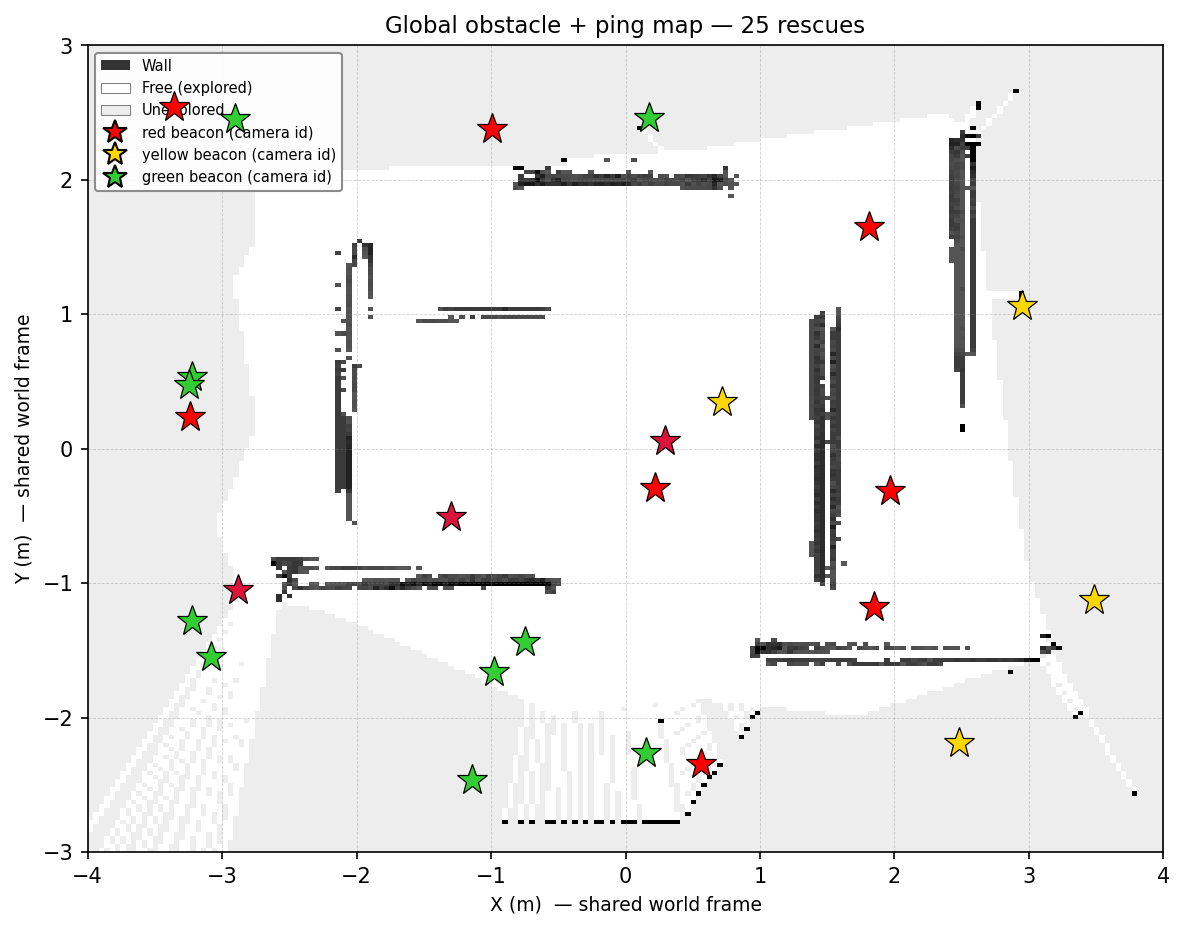
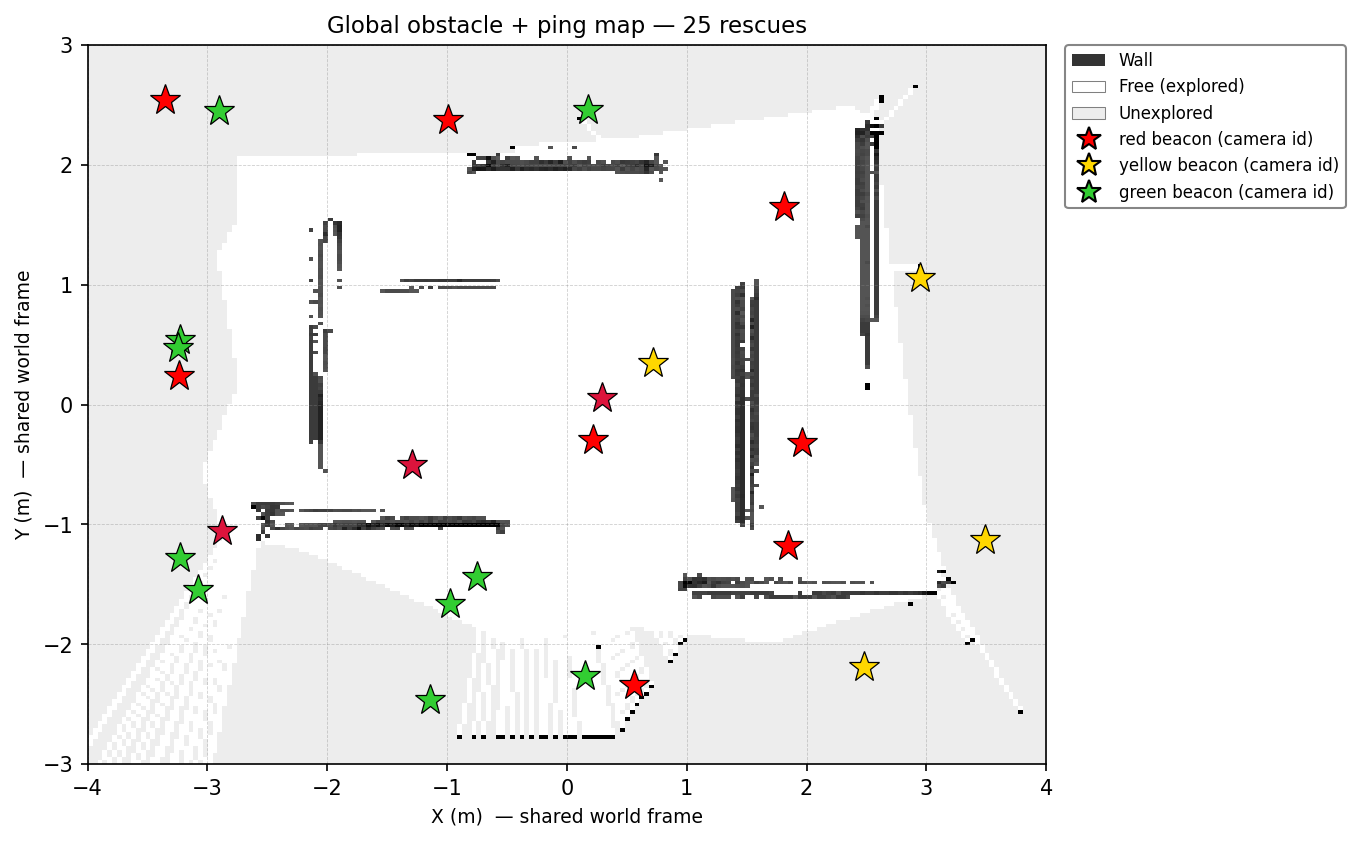
Added Legend Fix

diff --git a/controllers/robot_controller/render_global_map.py b/controllers/robot_controller/render_global_map.py
@@ -1,0 +1,258 @@
+#!/usr/bin/env python3
+"""
+render_global_map.py — regenerate the ONE global map offline.
+
+The RescueBot controllers continuously pickle their SLAM state to
+``slam_state_<id>.pkl`` (occupancy grid + world start_pos + trajectory +
+camera-identified rescues). This script merges every state file the same way
+robot_controller.save_global_map does — into one shared world frame centred on
+the world origin — and writes the two galleries WITHOUT rerunning the
+simulation:
+
+    maps_traj/global_map.png         full map: obstacles + trajectories + starts
+                                     + stop points + dashed links + camera-coloured pings
+    clean_maps/global_clean_map.png  obstacles + camera-coloured pings ONLY
+
+Both use a legend placed OUTSIDE the plot so it never covers a ping.
+
+Usage:
+    python render_global_map.py [state_dir] [--clean-only] [--traj-only]
+
+`state_dir` defaults to this script's own directory (where the controller
+drops the pickles). Output dirs are created next to the state files.
+"""
+import os
+import sys
+import glob
+import pickle
+
+import numpy as np
+import matplotlib
+matplotlib.use("Agg")
+import matplotlib.pyplot as plt
+import matplotlib.patches as mpatches
+from matplotlib.lines import Line2D
+
+# ── Constants — MUST match robot_controller.py so the offline render is
+#    identical to the live one. ──────────────────────────────────────────
+MAP_SIZE       = 200
+MAP_CENTRE     = MAP_SIZE // 2
+WORLD_X_MAX    = 4.0
+WORLD_Y_MAX    = 3.0
+WALL_CERTAINTY = 0.30
+IMPASSABLE     = 0.90
+GLOBAL_REF_START = (0.0, 0.0)            # shared centre = world origin
+
+STATE_GLOB     = "slam_state_*.pkl"
+MAPS_TRAJ_DIR  = "maps_traj"
+CLEAN_MAPS_DIR = "clean_maps"
+
+# Beacon markers ALWAYS in the camera-identified colour.
+COLOUR_MPL = {"red": "red", "yellow": "gold", "green": "limegreen"}
+
+# Fixed per-robot colour (never a beacon colour) — same dict as the controller.
+ROBOT_TRAJ_COLOURS = {
+    0: "tab:purple",
+    1: "tab:orange",
+    2: "tab:brown",
+    3: "tab:cyan",
+    4: "tab:pink",
+    5: "slategray",
+    6: "navy",
+    7: "darkviolet",
+}
+_ROBOT_TRAJ_PALETTE = list(ROBOT_TRAJ_COLOURS.values())
+
+
+def robot_colour(rid):
+    if rid in ROBOT_TRAJ_COLOURS:
+        return ROBOT_TRAJ_COLOURS[rid]
+    return _ROBOT_TRAJ_PALETTE[rid % len(_ROBOT_TRAJ_PALETTE)]
+
+
+def load_all_states(state_dir):
+    """Load every slam_state_*.pkl in state_dir, sorted by id."""
+    out = []
+    for path in glob.glob(os.path.join(state_dir, STATE_GLOB)):
+        try:
+            with open(path, "rb") as f:
+                out.append(pickle.load(f))
+        except (OSError, EOFError, pickle.UnpicklingError) as e:
+            print("  ! skipping %s (%s)" % (path, e))
+    out.sort(key=lambda s: s.get("id", 0))
+    return out
+
+
+def save_global_map(robot_maps, filename, ref_start, clean=False):
+    """Identical merge + render to robot_controller.save_global_map, with the
+    legend outside the axes in BOTH galleries."""
+    rsx, rsy = ref_start
+
+    g_hits   = np.zeros((MAP_SIZE, MAP_SIZE), dtype=np.int32)
+    g_visits = np.zeros((MAP_SIZE, MAP_SIZE), dtype=np.int32)
+    for rm in robot_maps:
+        sx, sy = rm["start_pos"]
+        dx, dy = sx - rsx, sy - rsy
+        off_px =  round(dx / WORLD_X_MAX * MAP_CENTRE)
+        off_py = -round(dy / WORLD_Y_MAX * MAP_CENTRE)
+        h = np.array(rm["hits"],   dtype=np.int32)
+        v = np.array(rm["visits"], dtype=np.int32)
+        sx0 = max(0, -off_px); sx1 = min(MAP_SIZE, MAP_SIZE - off_px)
+        dx0 = max(0,  off_px); dx1 = min(MAP_SIZE, MAP_SIZE + off_px)
+        sy0 = max(0, -off_py); sy1 = min(MAP_SIZE, MAP_SIZE - off_py)
+        dy0 = max(0,  off_py); dy1 = min(MAP_SIZE, MAP_SIZE + off_py)
+        if sx0 < sx1 and sy0 < sy1:
+            g_hits  [dy0:dy1, dx0:dx1] += h[sy0:sy1, sx0:sx1]
+            g_visits[dy0:dy1, dx0:dx1] += v[sy0:sy1, sx0:sx1]
+
+    with np.errstate(divide="ignore", invalid="ignore"):
+        occ = np.where(g_visits > 0, g_hits / g_visits, np.nan)
+
+    img = np.full((MAP_SIZE, MAP_SIZE, 4), [0.93, 0.93, 0.93, 1.0],
+                  dtype=np.float32)
+    free_mask = (~np.isnan(occ)) & (occ <= WALL_CERTAINTY)
+    img[free_mask] = [1.0, 1.0, 1.0, 1.0]
+    wall_mask = (~np.isnan(occ)) & (occ > WALL_CERTAINTY)
+    t_wall = np.clip(
+        (occ[wall_mask] - WALL_CERTAINTY) / (IMPASSABLE - WALL_CERTAINTY), 0, 1)
+    shade = 0.35 * (1.0 - t_wall)
+    img[wall_mask, 0] = shade
+    img[wall_mask, 1] = shade
+    img[wall_mask, 2] = shade
+
+    fig, ax = plt.subplots(figsize=(11, 7) if not clean else (9, 7), dpi=150)
+    ax.imshow(img, origin="upper",
+              extent=[-WORLD_X_MAX, WORLD_X_MAX, -WORLD_Y_MAX, WORLD_Y_MAX],
+              aspect="equal", interpolation="nearest")
+    ax.set_xlabel("X (m)  — shared world frame", fontsize=9)
+    ax.set_ylabel("Y (m)  — shared world frame", fontsize=9)
+    ax.grid(True, linestyle="--", linewidth=0.4, alpha=0.4, color="#888888")
+
+    legend_handles = [
+        mpatches.Patch(facecolor=(0.20, 0.20, 0.20), label="Wall"),
+        mpatches.Patch(facecolor=(1.00, 1.00, 1.00),
+                       edgecolor="gray", linewidth=0.5, label="Free (explored)"),
+        mpatches.Patch(facecolor=(0.93, 0.93, 0.93),
+                       edgecolor="gray", linewidth=0.5, label="Unexplored"),
+    ]
+
+    total_rescues = 0
+    seen_colours  = set()
+
+    # Beacon (ping) markers — both galleries — in the camera-identified colour.
+    for rm in robot_maps:
+        sx, sy = rm["start_pos"]
+        sxr, syr = sx - rsx, sy - rsy
+        rps = rm.get("rescued_positions", [])
+        rcs = rm.get("rescued_colours", [])
+        total_rescues += len(rps)
+        for j, (px, py) in enumerate(rps):
+            cname = rcs[j] if j < len(rcs) else None
+            mc = COLOUR_MPL.get(cname, "crimson")
+            if cname in COLOUR_MPL:
+                seen_colours.add(cname)
+            ax.plot(px + sxr, py + syr, linestyle="none", marker="*", color=mc,
+                    markersize=15, zorder=6,
+                    markeredgecolor="black", markeredgewidth=0.6)
+    for cname in ("red", "yellow", "green"):
+        if cname in seen_colours:
+            legend_handles.append(
+                Line2D([0], [0], marker="*", color="w",
+                       markerfacecolor=COLOUR_MPL[cname], markeredgecolor="black",
+                       markersize=12, label="%s beacon (camera id)" % cname))
+
+    # Trajectories + starts + stop points + dashed links (full gallery only).
+    if not clean:
+        for idx, rm in enumerate(robot_maps):
+            rid = rm.get("id", idx)
+            lbl = rm.get("label", "RescueBot %d" % rid)
+            sx, sy = rm["start_pos"]
+            sxr, syr = sx - rsx, sy - rsy
+            tcol = robot_colour(rid)
+            traj = rm.get("trajectory", [])
+            rps  = rm.get("rescued_positions", [])
+            rss  = rm.get("rescued_stops", [])
+            if len(traj) > 1:
+                tx = [p[0] + sxr for p in traj]
+                ty = [p[1] + syr for p in traj]
+                ax.plot(tx, ty, color=tcol, linewidth=1.1, alpha=0.85, zorder=3)
+                legend_handles.append(
+                    Line2D([0], [0], color=tcol, linewidth=1.5,
+                           label="%s trajectory" % lbl))
+            ax.plot(sxr, syr, marker="P", color=tcol, markersize=9,
+                    markeredgecolor="white", markeredgewidth=0.7, zorder=5)
+            legend_handles.append(
+                Line2D([0], [0], marker="P", color="w", markerfacecolor=tcol,
+                       markersize=8, label="%s start" % lbl))
+            has_stop = False
+            for j, (stx, sty) in enumerate(rss):
+                sxp, syp = stx + sxr, sty + syr
+                ax.plot(sxp, syp, marker="o", markerfacecolor="none",
+                        markeredgecolor=tcol, markeredgewidth=1.8,
+                        markersize=11, zorder=5)
+                has_stop = True
+                if j < len(rps):
+                    ppx, ppy = rps[j][0] + sxr, rps[j][1] + syr
+                    ax.plot([sxp, ppx], [syp, ppy], color=tcol,
+                            linewidth=1.0, linestyle="--", alpha=0.7, zorder=4)
+            if has_stop:
+                legend_handles.append(
+                    Line2D([0], [0], marker="o", color="w",
+                           markerfacecolor="none", markeredgecolor=tcol,
+                           markeredgewidth=1.8, markersize=10,
+                           label="%s stop point" % lbl))
+        ax.set_title("Global SLAM map — %d RescueBot%s · %d rescue%s"
+                     % (len(robot_maps), "s" if len(robot_maps) != 1 else "",
+                        total_rescues, "s" if total_rescues != 1 else ""),
+                     fontsize=11)
+    else:
+        ax.set_title("Global obstacle + ping map — %d rescue%s"
+                     % (total_rescues, "s" if total_rescues != 1 else ""),
+                     fontsize=11)
+
+    # Legend OUTSIDE the axes (right column) in BOTH galleries.
+    ax.legend(handles=legend_handles, bbox_to_anchor=(1.02, 1.0),
+              loc="upper left", borderaxespad=0.0,
+              fontsize=8, framealpha=0.95, edgecolor="gray")
+    fig.subplots_adjust(left=0.07, right=0.72 if not clean else 0.78,
+                        top=0.93, bottom=0.08)
+
+    fig.savefig(filename, dpi=150, bbox_inches="tight", format="png")
+    plt.close(fig)
+    print("  wrote %s" % filename)
+
+
+def main():
+    args = [a for a in sys.argv[1:]]
+    clean_only = "--clean-only" in args
+    traj_only  = "--traj-only" in args
+    args = [a for a in args if not a.startswith("--")]
+
+    state_dir = args[0] if args else os.path.dirname(os.path.abspath(__file__))
+    print("Reading state from: %s" % state_dir)
+
+    states = load_all_states(state_dir)
+    if not states:
+        print("No %s found in %s — run the sim first (or pass the right dir)."
+              % (STATE_GLOB, state_dir))
+        return 1
+    total = sum(len(s.get("rescued_positions", [])) for s in states)
+    print("Loaded %d RescueBot state(s), %d rescue(s) total." % (len(states), total))
+
+    os.makedirs(os.path.join(state_dir, MAPS_TRAJ_DIR),  exist_ok=True)
+    os.makedirs(os.path.join(state_dir, CLEAN_MAPS_DIR), exist_ok=True)
+
+    if not clean_only:
+        save_global_map(states,
+                        os.path.join(state_dir, MAPS_TRAJ_DIR, "global_map.png"),
+                        GLOBAL_REF_START, clean=False)
+    if not traj_only:
+        save_global_map(states,
+                        os.path.join(state_dir, CLEAN_MAPS_DIR, "global_clean_map.png"),
+                        GLOBAL_REF_START, clean=True)
+    print("Done.")
+    return 0
+
+
+if __name__ == "__main__":
+    sys.exit(main())

diff --git a/controllers/robot_controller/robot_controller.py b/controllers/robot_controller/robot_controller.py
@@ -1106,7 +1106,7 @@ def save_global_map(robot_maps, filename, ref_start, clean=False):
     img[wall_mask, 1] = shade
     img[wall_mask, 2] = shade
 
-    fig, ax = plt.subplots(figsize=(11, 7) if not clean else (8, 7), dpi=150)
+    fig, ax = plt.subplots(figsize=(11, 7) if not clean else (9, 7), dpi=150)
     ax.imshow(img, origin="upper",
               extent=[-WORLD_X_MAX, WORLD_X_MAX, -WORLD_Y_MAX, WORLD_Y_MAX],
               aspect="equal", interpolation="nearest")
@@ -1204,9 +1204,11 @@ def save_global_map(robot_maps, filename, ref_start, clean=False):
         ax.set_title("Global obstacle + ping map — %d rescue%s"
                      % (total_rescues, "s" if total_rescues != 1 else ""),
                      fontsize=11)
-        ax.legend(handles=legend_handles, loc="upper left",
-                  fontsize=7, framealpha=0.9, edgecolor="gray")
-        fig.tight_layout()
+        # Legend OUTSIDE the axes (right column) so it never covers a ping.
+        ax.legend(handles=legend_handles, bbox_to_anchor=(1.02, 1.0),
+                  loc="upper left", borderaxespad=0.0,
+                  fontsize=8, framealpha=0.95, edgecolor="gray")
+        fig.subplots_adjust(left=0.08, right=0.78, top=0.93, bottom=0.08)
 
     tmp = filename + ".tmp"
     try: